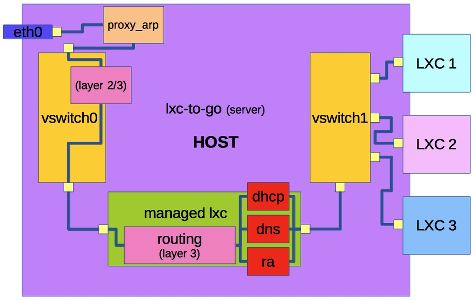
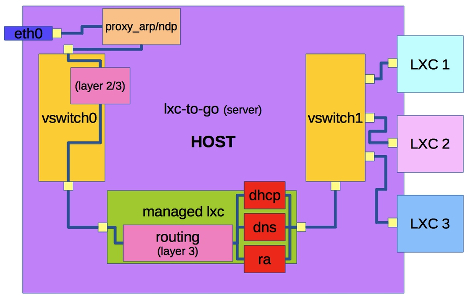
prototype 0.8.1

diff --git a/README.md b/README.md
@@ -34,6 +34,12 @@ Features
    * deb7 template
    * deb8 template
 
+* create "managed" lxc for:
+   * routing (layer 3)
+   * dhcp server
+   * dns server
+   * ipv6 router advertisement
+
 Platform
 ========
 * Linux
@@ -79,7 +85,7 @@ Example
 
 Diagram
 =======
-* lxc-to-go for servers (prototype > 0.7)
+* lxc-to-go for servers (prototype > 0.9)
 ![lxc-to-go_servers](/content/lxc-to-go_servers_.jpg)
 
 * lxc-to-go for mobile devices (prototype 0.6)
